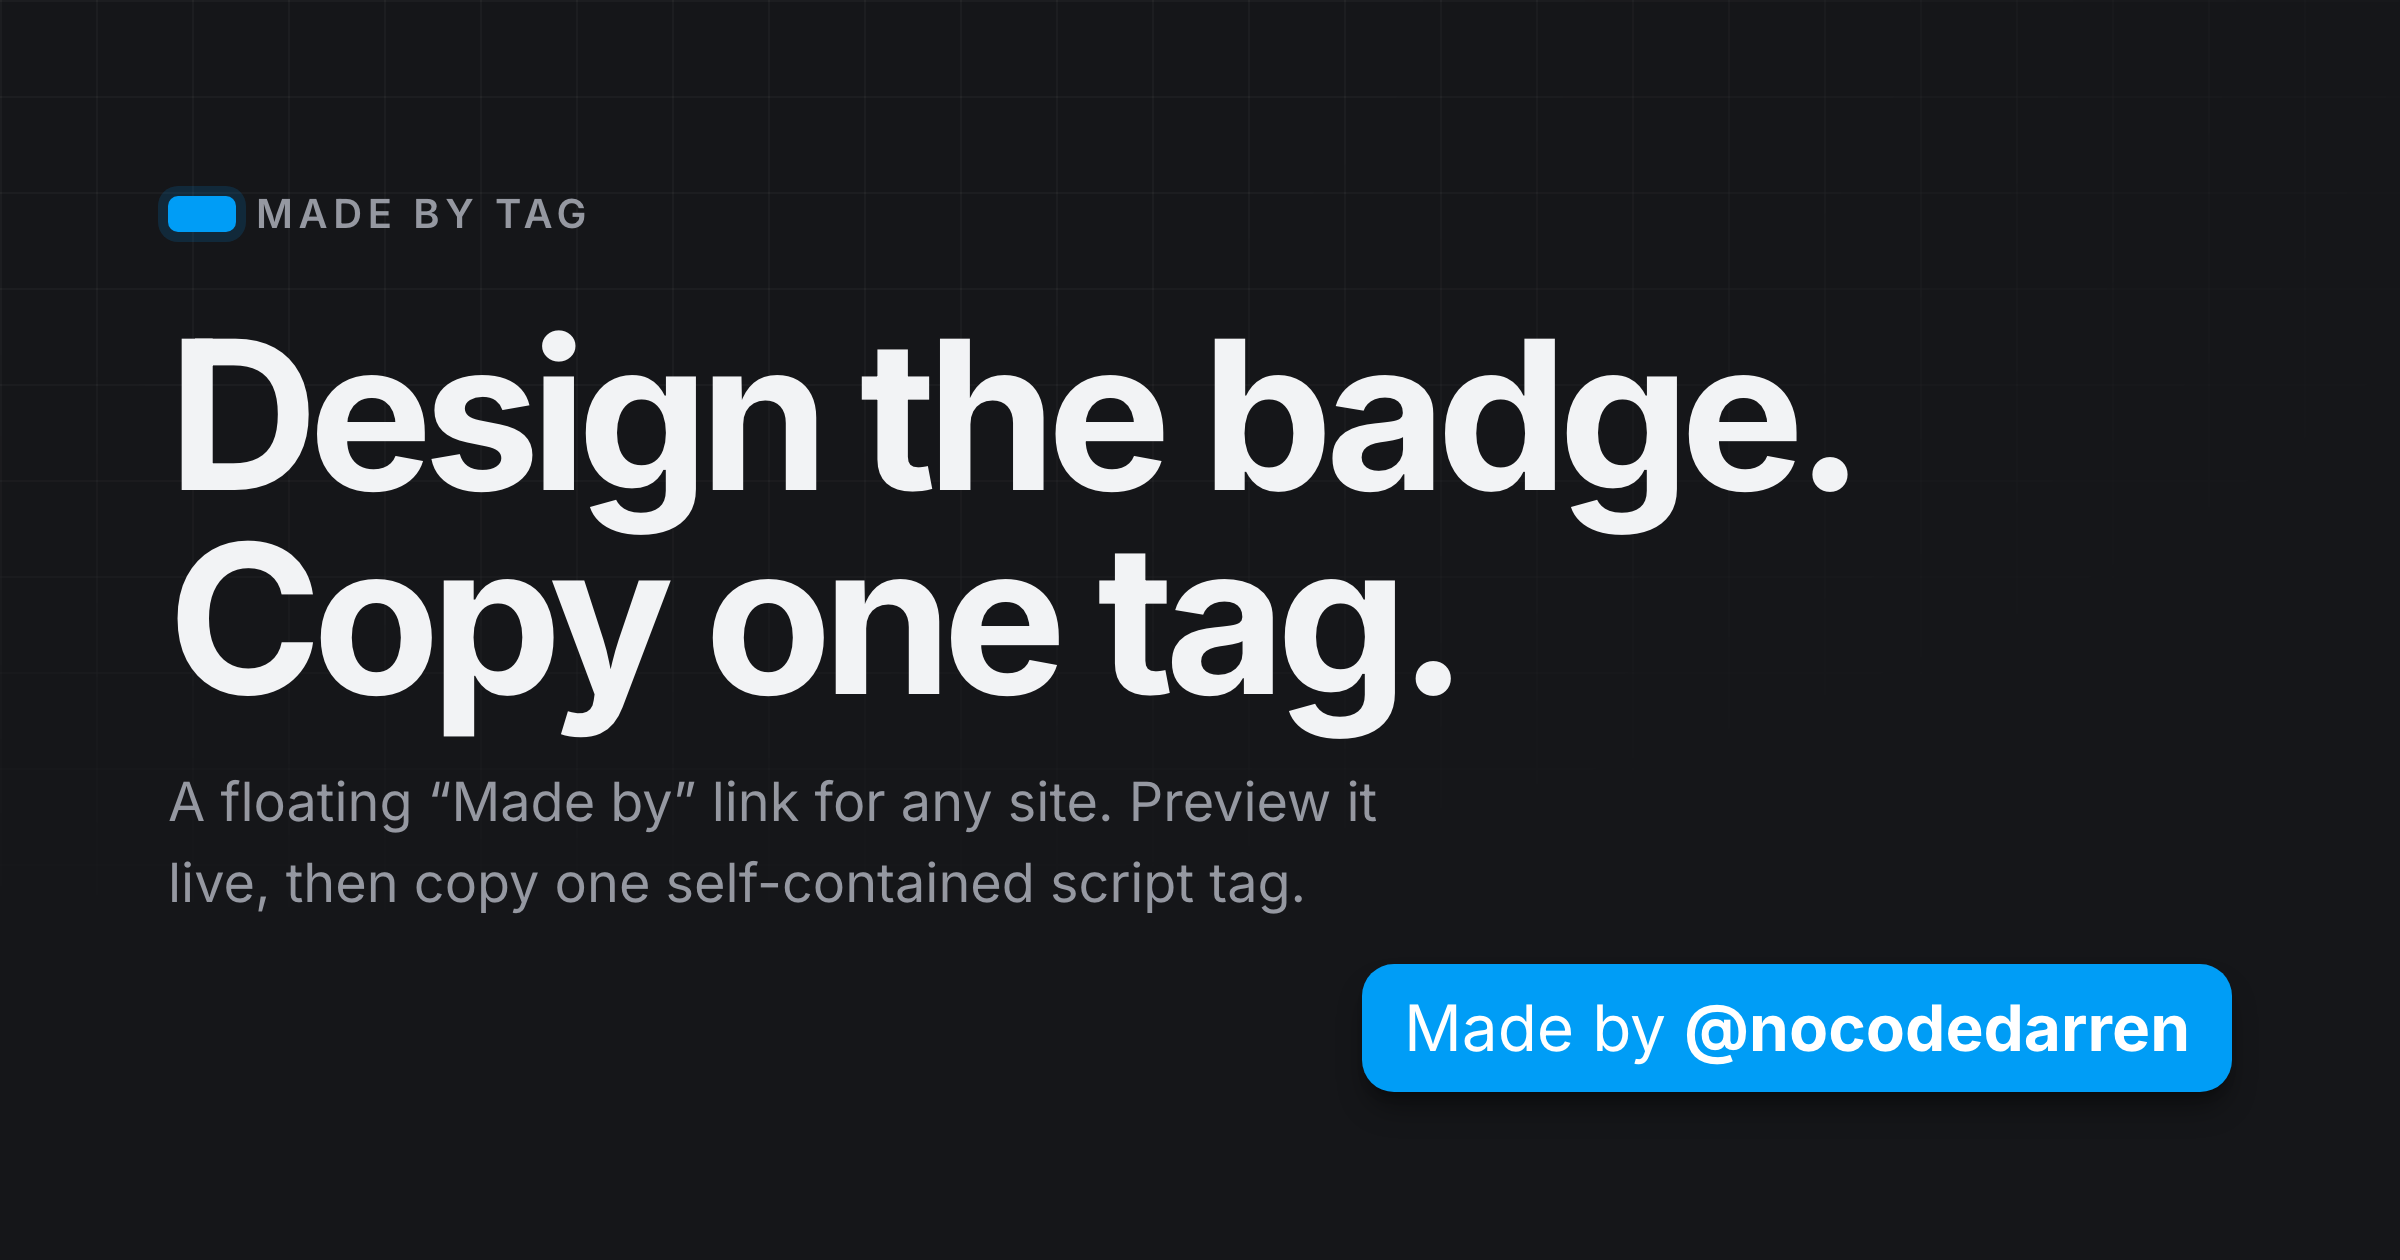
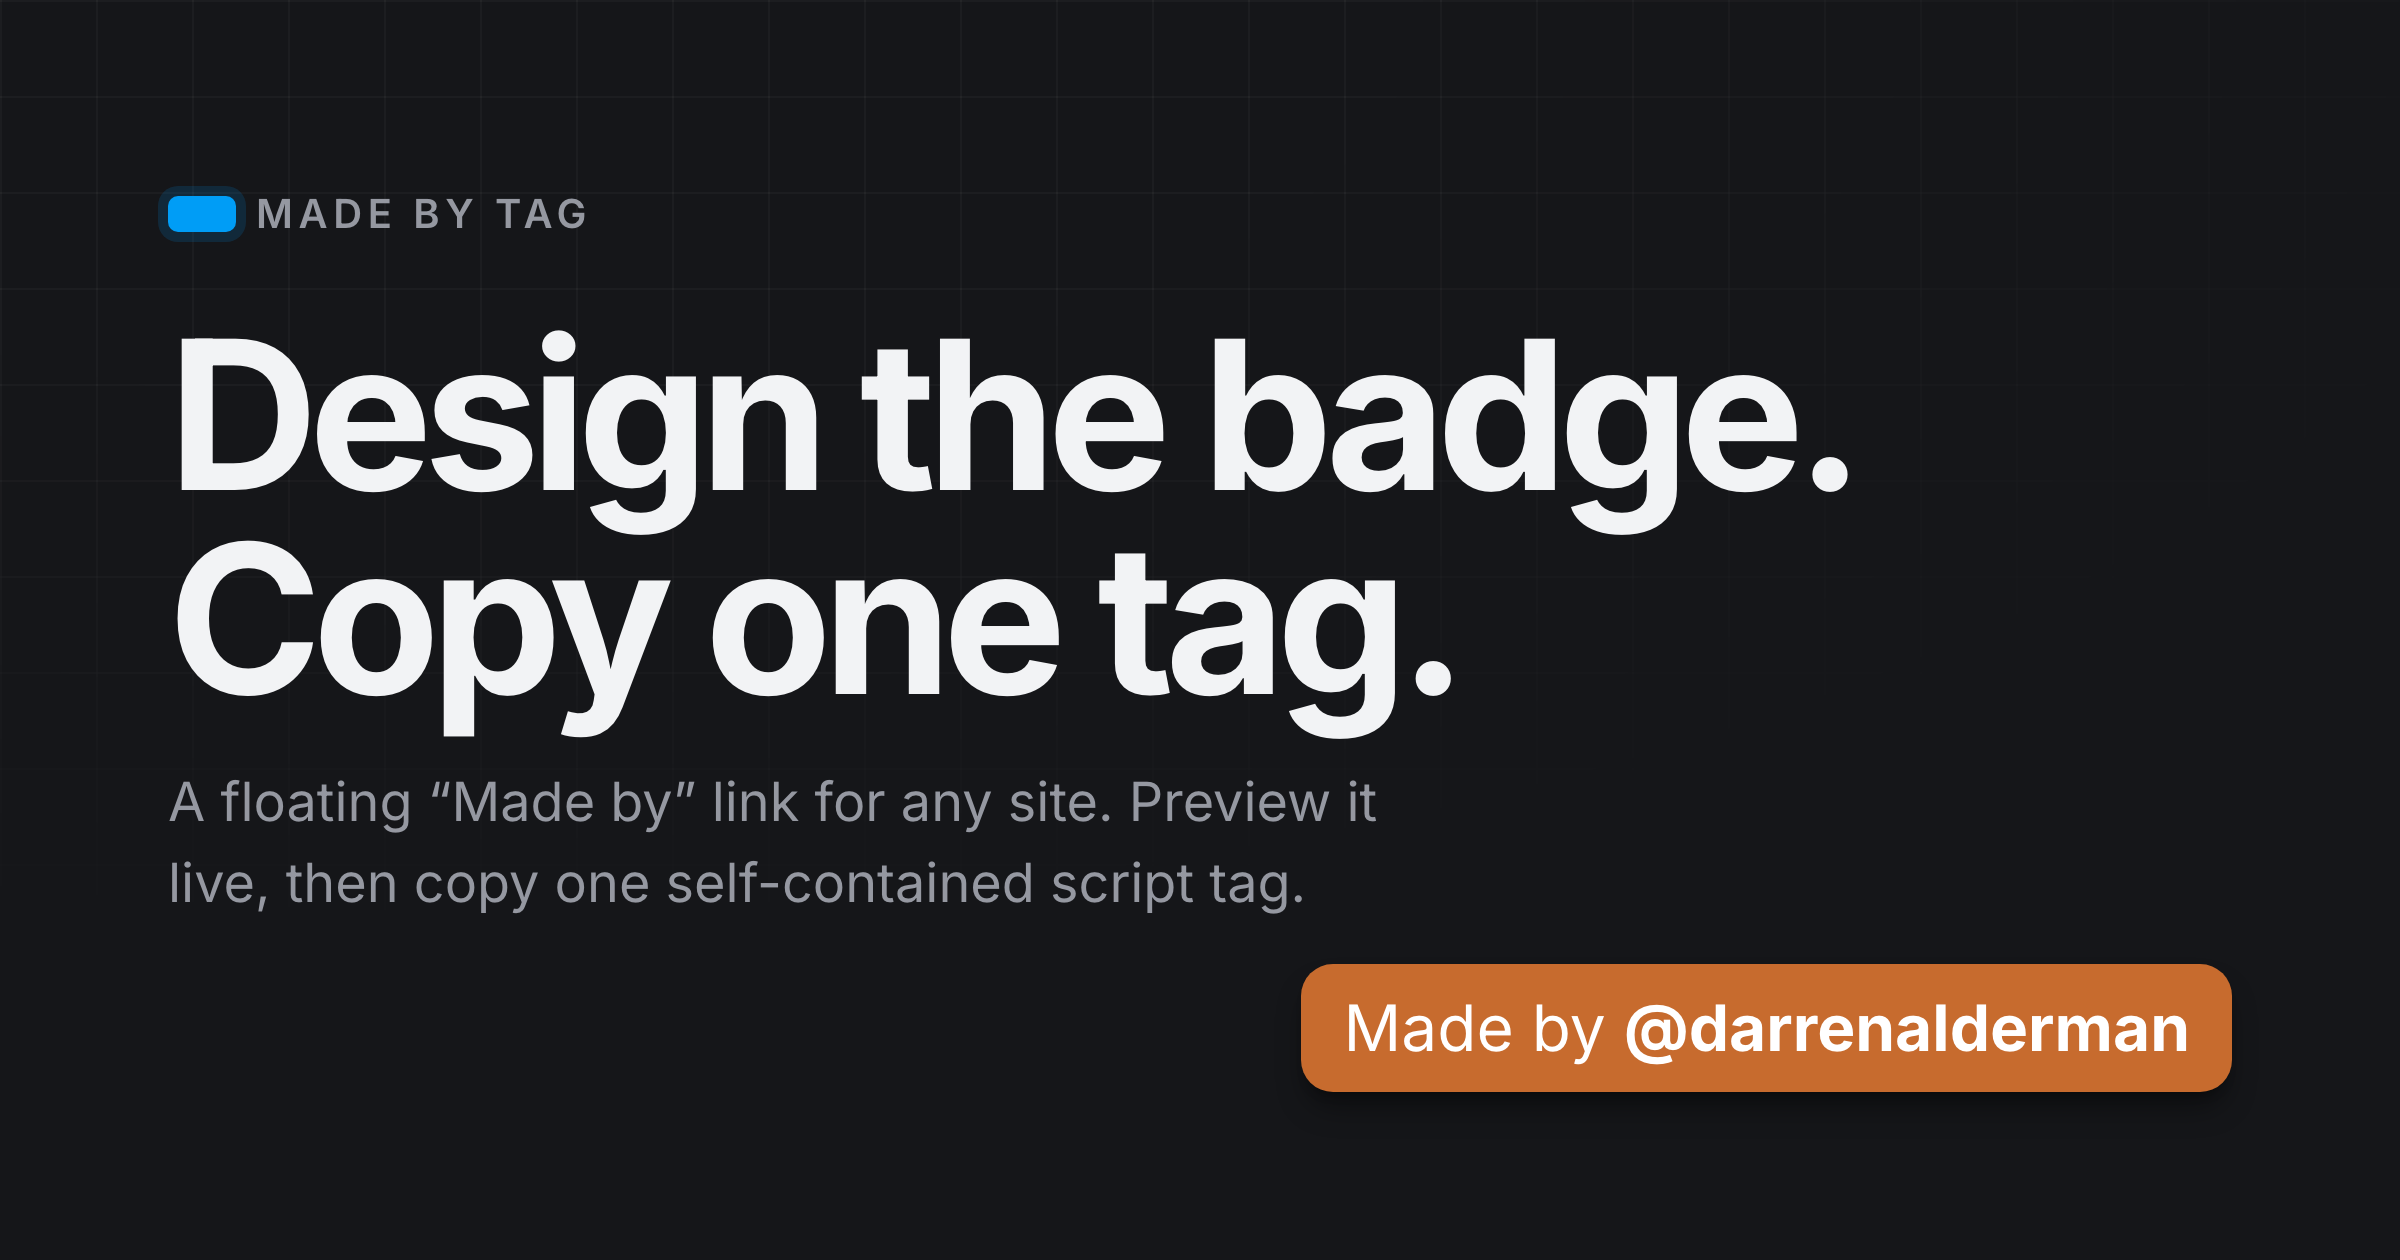
Rename to made-by-tag and set Darren's tag as the default
The repository and the Vercel project now share a name, so every URL in the
project points at made-by-tag.vercel.app rather than the old fm-kappa one.

Defaults are now the tag this project's author actually uses: @darrenalderman,
linking to LinkedIn, on #c76b2e. Dropping madeby.js onto one of his sites with
no overrides produces the right badge.

Bind the control placeholders and the options table in "How to Use This" to
DEFAULTS instead of repeating the values as literals. Those docs previously
restated the defaults by hand, which is the same duplication that let the two
repositories drift apart in the first place.

Rename the preview page's placeholder company to AmbleMind, and regenerate the
screenshots and social card for the new colour and name.

Changed region(s): [[0.5312, 0.7429, 0.9375, 0.8667]]

diff --git a/src/lib/InstallPane.svelte b/src/lib/InstallPane.svelte
@@ -1,12 +1,12 @@
 <script>
   import Prism from 'prismjs';
   import CopyButton from './CopyButton.svelte';
-  import { buildHostedSnippet } from './tag.js';
+  import { buildHostedSnippet, DEFAULTS } from './tag.js';
 
   let { inputs } = $props();
 
   // Where this app is deployed. Update if it moves to a custom domain.
-  const PROD_ORIGIN = 'https://fm-kappa.vercel.app';
+  const PROD_ORIGIN = 'https://made-by-tag.vercel.app';
 
   // Points at wherever this is served from, so the URL survives a rename — but
   // never hands someone a localhost URL to paste into their live site.
@@ -25,15 +25,18 @@
     ['Paste it', 'Drop it before </head> in your site’s HTML, or into any “custom code” box.']
   ];
 
+  // Shown defaults come from DEFAULTS so the docs cannot drift from the code.
+  const q = (value) => JSON.stringify(value);
+
   const options = [
-    ['madeBy', '"Made by"', 'The lead-in text. Leave it empty for just the name.'],
-    ['handle', '"@nocodedarren"', 'The bold part. Any name works, not only a handle.'],
-    ['link', 'the Twitter profile', 'Where the tag points.'],
-    ['textColor', '"#ffffff"', 'Text colour.'],
-    ['bgColor', '"#009df6"', 'Tile colour.'],
-    ['size', '1', 'Scales text, padding and radius together, in rem.'],
-    ['location', '"bottom-right"', 'Which corner the tag sits in.'],
-    ['spaceTop …', '1', 'Offset from each edge, in rem. Negatives work.']
+    ['madeBy', q(DEFAULTS.madeBy), 'The lead-in text. Leave it empty for just the name.'],
+    ['handle', q(DEFAULTS.handle), 'The bold part. Any name works, not only a handle.'],
+    ['link', q(DEFAULTS.link), 'Where the tag points.'],
+    ['textColor', q(DEFAULTS.textColor), 'Text colour.'],
+    ['bgColor', q(DEFAULTS.bgColor), 'Tile colour.'],
+    ['size', String(DEFAULTS.size), 'Scales text, padding and radius together, in rem.'],
+    ['location', q(DEFAULTS.corner), 'Which corner the tag sits in.'],
+    ['spaceTop …', String(DEFAULTS.spaceTop), 'Offset from each edge, in rem. Negatives work.']
   ];
 </script>
 

diff --git a/index.html b/index.html
@@ -12,16 +12,16 @@
       name="description"
       content="Design a floating “Made by” tag, preview it on a real page, and copy one self-contained script tag. No build step, no account, no dependencies."
     />
-    <link rel="canonical" href="https://fm-kappa.vercel.app/" />
+    <link rel="canonical" href="https://made-by-tag.vercel.app/" />
 
     <meta property="og:type" content="website" />
-    <meta property="og:url" content="https://fm-kappa.vercel.app/" />
+    <meta property="og:url" content="https://made-by-tag.vercel.app/" />
     <meta property="og:title" content="Made By Tag" />
     <meta
       property="og:description"
       content="Design a floating “Made by” tag, preview it on a real page, and copy one self-contained script tag."
     />
-    <meta property="og:image" content="https://fm-kappa.vercel.app/og.png" />
+    <meta property="og:image" content="https://made-by-tag.vercel.app/og.png" />
 
     <meta name="twitter:card" content="summary_large_image" />
     <meta name="twitter:site" content="@nocodedarren" />
@@ -30,7 +30,7 @@
       name="twitter:description"
       content="Design a floating “Made by” tag, preview it on a real page, and copy one self-contained script tag."
     />
-    <meta name="twitter:image" content="https://fm-kappa.vercel.app/og.png" />
+    <meta name="twitter:image" content="https://made-by-tag.vercel.app/og.png" />
   </head>
 
   <body>

diff --git a/src/lib/Controls.svelte b/src/lib/Controls.svelte
@@ -21,17 +21,17 @@
 
     <label class="field">
       <span>Made by</span>
-      <input type="text" placeholder="Made by" bind:value={inputs.madeBy} />
+      <input type="text" placeholder={DEFAULTS.madeBy} bind:value={inputs.madeBy} />
     </label>
 
     <label class="field">
       <span>Name or handle</span>
-      <input type="text" placeholder="@nocodedarren" bind:value={inputs.handle} />
+      <input type="text" placeholder={DEFAULTS.handle} bind:value={inputs.handle} />
     </label>
 
     <label class="field">
       <span>Links to</span>
-      <input type="url" placeholder="https://twitter.com/nocodedarren" bind:value={inputs.link} />
+      <input type="url" placeholder={DEFAULTS.link} bind:value={inputs.link} />
     </label>
   </section>
 

diff --git a/src/lib/demoPage.js b/src/lib/demoPage.js
@@ -58,7 +58,7 @@ export function demoPage(theme = 'light') {
 <body>
   <div class="wrap">
     <header>
-      <div class="logo"><i></i> Northbound</div>
+      <div class="logo"><i></i> AmbleMind</div>
       <nav><span>Product</span><span>Pricing</span><span>Docs</span><span>Log in</span></nav>
     </header>
 
@@ -75,7 +75,7 @@ export function demoPage(theme = 'light') {
       <div class="card"><div class="bar" style="width:80%"></div><div class="bar" style="width:60%"></div><div class="bar" style="width:38%"></div></div>
     </div>
 
-    <footer>© Northbound. A placeholder site.</footer>
+    <footer>© AmbleMind. A placeholder site.</footer>
   </div>
 </body>
 </html>`;

diff --git a/src/lib/tag.js b/src/lib/tag.js
@@ -15,11 +15,11 @@ export const CORNERS = [
 
 export const DEFAULTS = {
   madeBy: 'Made by',
-  handle: '@nocodedarren',
-  link: 'https://twitter.com/nocodedarren',
+  handle: '@darrenalderman',
+  link: 'https://www.linkedin.com/in/darren-alderman/',
 
   textColor: '#ffffff',
-  bgColor: '#009df6',
+  bgColor: '#c76b2e',
   size: 1,
 
   corner: 'bottom-right',

diff --git a/src/App.svelte b/src/App.svelte
@@ -50,7 +50,7 @@
       {/each}
     </nav>
 
-    <a class="source" href="https://github.com/amblemind/fm" target="_blank" rel="noopener">
+    <a class="source" href="https://github.com/amblemind/made-by-tag" target="_blank" rel="noopener">
       Source
     </a>
   </header>

diff --git a/README.md b/README.md
@@ -3,7 +3,7 @@
 Design a floating “Made by” link for your website, watch it on a real page, and walk away with one
 self-contained `<script>` tag. No build step, no dependencies, no account.
 
-**[Try it →](https://fm-kappa.vercel.app)**
+**[Try it →](https://made-by-tag.vercel.app)**
 
 ![The builder, with a live preview of the tag on a placeholder site](docs/screenshot.png)
 
@@ -50,16 +50,16 @@ describe the design in `window.madeByOverrides`:
 <script>
   window.madeByOverrides = {
     madeBy: "Made by",
-    handle: "@nocodedarren",
-    link: "https://twitter.com/nocodedarren",
+    handle: "@darrenalderman",
+    link: "https://www.linkedin.com/in/darren-alderman/",
     textColor: "#ffffff",
-    bgColor: "#009df6",
+    bgColor: "#c76b2e",
     size: 1,
     location: "bottom-right",
     spaceTop: 1, spaceRight: 1, spaceBottom: 1, spaceLeft: 1
   };
 </script>
-<script src="https://fm-kappa.vercel.app/madeby.js" defer></script>
+<script src="https://made-by-tag.vercel.app/madeby.js" defer></script>
 ```
 
 The **How to Use This** tab generates this block from whatever you have designed, so you do not have
@@ -68,7 +68,7 @@ to hand-write it.
 The older form still works, and still defaults to a Twitter handle:
 
 ```html
-<script id="madeby-fm" src="https://fm-kappa.vercel.app/madeby.js" data-twitter-handle="nocodedarren" defer></script>
+<script id="madeby-fm" src="https://made-by-tag.vercel.app/madeby.js" data-twitter-handle="darrenalderman" defer></script>
 ```
 
 ### Options
@@ -76,10 +76,10 @@ The older form still works, and still defaults to a Twitter handle:
 | Option | Default | What it does |
 | --- | --- | --- |
 | `madeBy` | `"Made by"` | The lead-in text. Leave it empty for just the name. |
-| `handle` | `"@" + data-twitter-handle` | The bold part. Any name works, not only a handle. |
-| `link` | the handle's Twitter profile | Where the tag points. |
+| `handle` | `"@darrenalderman"` | The bold part. Any name works, not only a handle. |
+| `link` | a LinkedIn profile | Where the tag points. |
 | `textColor` | `"#ffffff"` | Text colour. |
-| `bgColor` | `"#009df6"` | Tile colour. |
+| `bgColor` | `"#c76b2e"` | Tile colour. |
 | `size` | `1` | Scales text, padding and corner radius together, in rem. |
 | `location` | `"bottom-right"` | `top-left`, `top-right`, `bottom-left` or `bottom-right`. |
 | `spaceTop` … `spaceLeft` | `1` | Offset from the edges, in rem. Negatives push it off-screen. |
@@ -121,7 +121,8 @@ grew features the other never got.
 It used to be split in half, which is where the drift came from:
 
 - `amblemind/fm` — “Freakin' Magical”, a planned collection of copy-and-paste site widgets. Made By was
-  the only one that got built, so the collection framing and its sidebar are gone.
+  the only one that got built, so the collection framing and its sidebar are gone. That repository is
+  now this one, renamed to `made-by-tag`.
 - `amblemind/madeby` — the standalone script, published for jsDelivr.
 
 Both now live here. The old jsDelivr URL still resolves as long as that repository stays up, so archive
